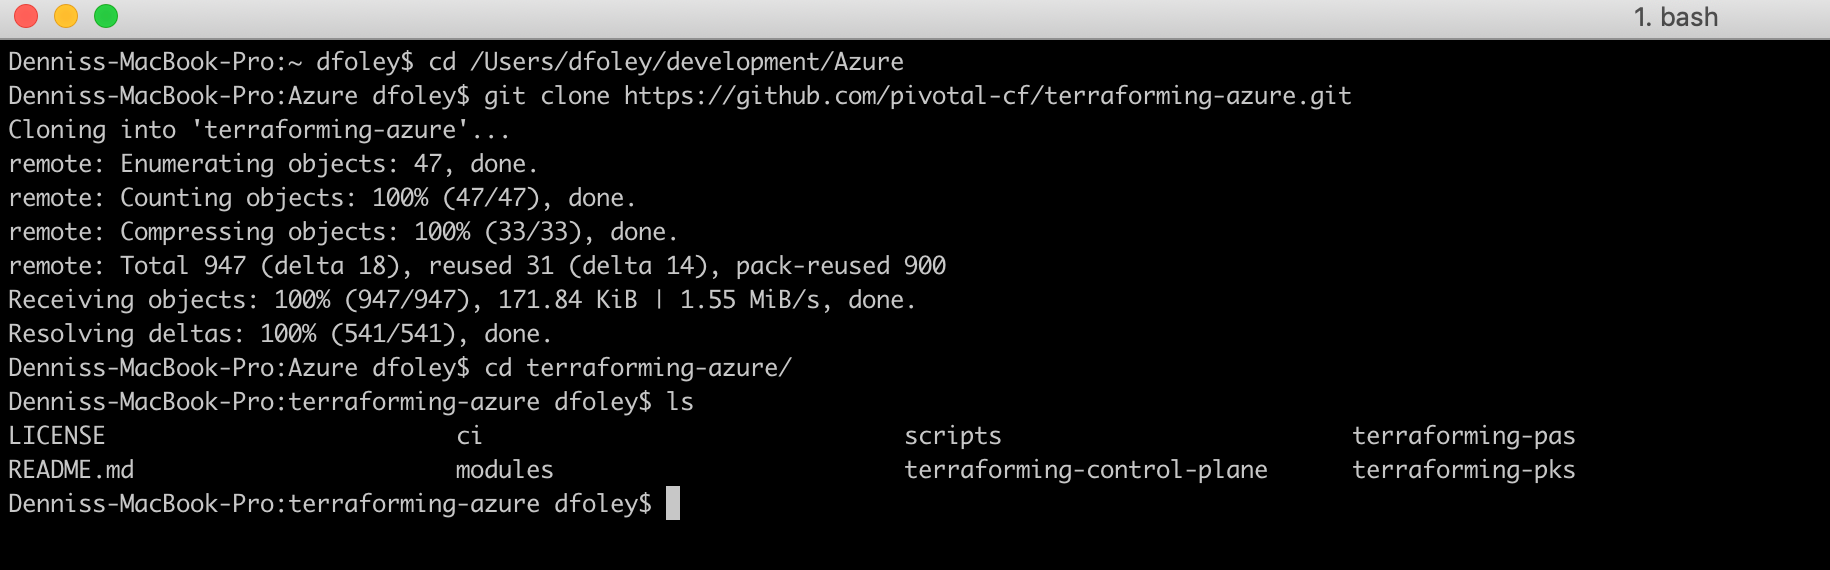
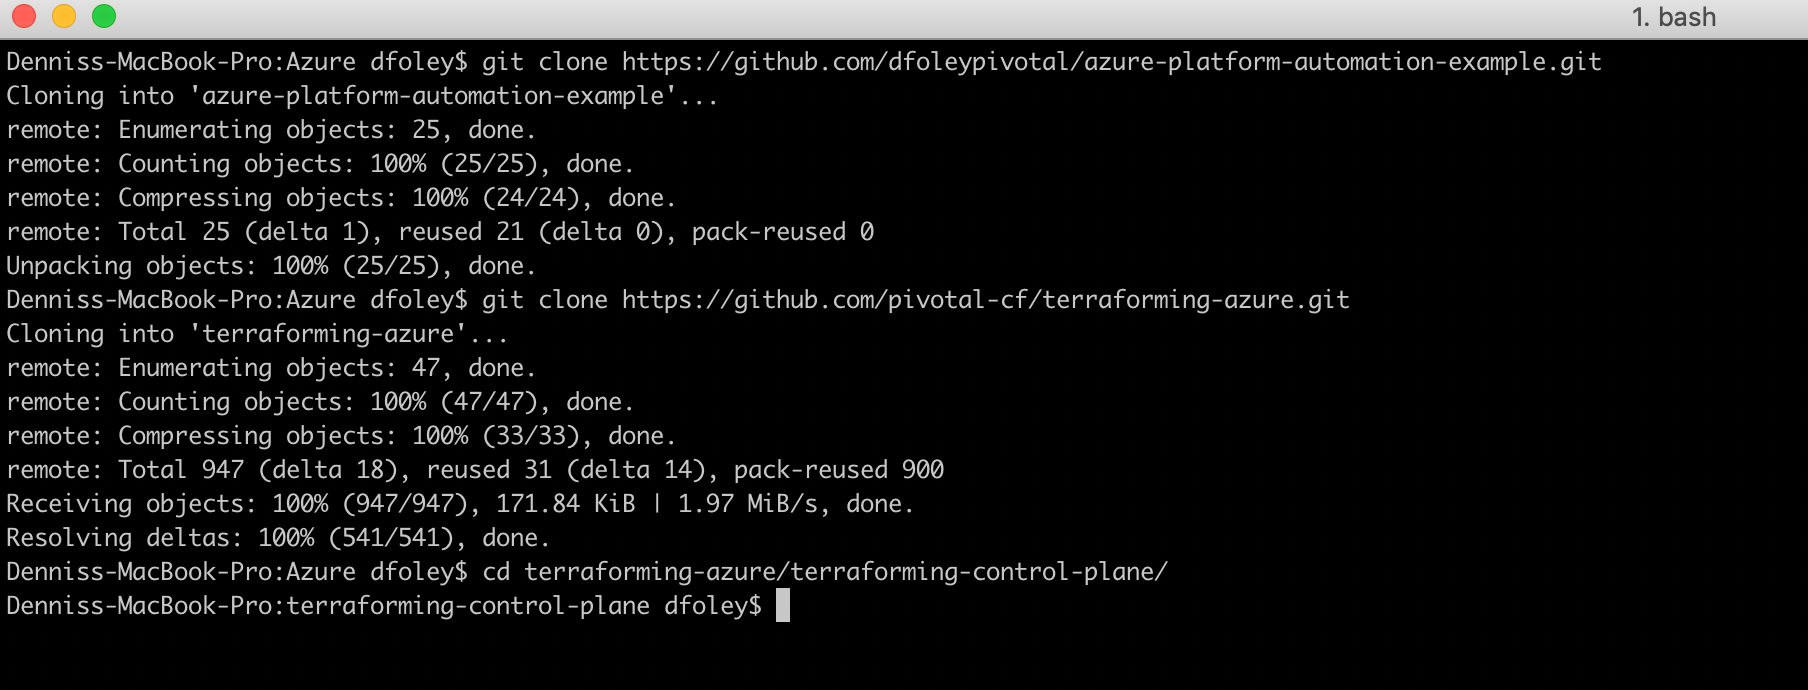
Added step to deploy Control Plane

Changed region(s): [[0.0, 0.0, 1.0, 0.9246], [0.7434, 0.7456, 0.8673, 0.8649], [0.4956, 0.7456, 0.5575, 0.7754]]

diff --git a/README.md b/README.md
@@ -28,11 +28,17 @@ This workshop will walk you through the process of deploying **Pivotal Cloud Fou
 cd /Users/dfoley/development/Azure
 ```
 
+- Clone workshop repository
+
+```bash
+git clone https://github.com/dfoleypivotal/azure-platform-automation-example.git
+```
+
 - Clone terraforming-azure repository
 
 ```bash
 git clone https://github.com/pivotal-cf/terraforming-azure.git
-cd terraforming-azure
+cd terraforming-azure/terraforming-control-plane/
 ```
 
 ![](images/image1.png)
@@ -78,13 +84,6 @@ az-automation \
 ### **STEP 3**: Pave IaaS using Terraform
 
 - Next step
-
-```bash
-cd terraforming-control-plane/
-vi terraform.tfvars
-```
-
-![](images/image6.png)
 
 - Using the values from the file **controlplane-credentials.tfvars** populate the **terraform.tfvars** file with the content below.
 
@@ -144,6 +143,127 @@ echo https://"$(terraform output ops_manager_dns)"
 - Follow the Pivotal documentation [Configuring BOSH Director on Azure](https://docs.pivotal.io/pivotalcf/2-4/om/azure/config-manual.html)
 
 **Note:** On the *Create Networks Page* only create one network, following the *infrastructure* network guide, and set the *Name* field to *control-plane-subnet*
+
+- For automated configuration run script **deploy-om-director.sh**
+
+```bash
+../../azure-platform-automation-example/scripts/deploy-om-director.sh
+```
+
+- Add image
+
+### **STEP 5**: Deploy Control Plane via Manifest
+
+- Retrieve the assets from [Pivotal Network](https://network.pivotal.io/). Download the manifest and all of the releases from [Pivotal Control Plane Components](https://network.pivotal.io/products/p-control-plane-components/#/releases/359492)
+
+    ![](images/image12.png)
+
+- Download the stemcell for the releases from [Stemcells for PCF](https://network.pivotal.io/products/stemcells-ubuntu-xenial#/releases/354816)
+
+    ![](images/image13.png)
+
+
+- Move downloaded files to current directory (it will make it easier to upload the assets later)
+
+```bash
+cp ~/Downloads/{control-plane*.yml,uaa-release*.tgz,credhub-release*.tgz,postgres-release*.tgz,garden-runc*.tgz,concourse-release*.tgz,*bosh-stemcell*.tgz, bosh-dns*.tgz} .
+```
+
+![](images/image14.png)
+
+- You need to upload each asset to your Ops Manager VM in order to upload them to BOSH. Save the Ops Manager SSH KEY to an environment variable (the ***OPS_MANAGER_KEY_PATH*** variable can be arbitrary)
+
+```bash
+export OPS_MANAGER_KEY_PATH=/your/ssh/key/path
+
+terraform output ops_manager_ssh_private_key > $OPS_MANAGER_KEY_PATH
+chmod 0600 $OPS_MANAGER_KEY_PATH
+```
+
+![](images/image15.png)
+
+- Save the Ops Manager environment variables for connecting with the om CLI
+
+```bash
+export OM_TARGET="https://$(terraform output ops_manager_dns)"
+export OM_USERNAME="the ops manager user name"
+export OM_PASSWORD="the ops manager password"
+```
+
+![](images/image16.png)
+
+- Set environment variables for connecting to BOSH
+
+```bash
+eval "$(om --skip-ssl-validation bosh-env --ssh-private-key $OPS_MANAGER_KEY_PATH)"
+```
+
+- Upload the assets to BOSH
+
+```bash
+bosh upload-stemcell *bosh-stemcell*.tgz
+bosh upload-release concourse-release-*.tgz
+bosh upload-release credhub-release-*.tgz
+bosh upload-release garden-runc-release-*.tgz
+bosh upload-release postgres-release-*.tgz
+bosh upload-release uaa-release-*.tgz
+bosh upload-release bosh-dns-*.tgz
+```
+
+![](images/image17.png)
+
+- Add a custom vm extension that includes details of your IAAS specific load balancer configuration.
+
+- Create a vars file called **vm-extension-vars.yml** with the following content:
+
+```vi
+---
+"control-plane-lb": controlplane-lb
+```
+
+- Create a config file called **vm-extension.yml**:
+
+```vi
+vm-extension-config:
+  name: control-plane-lb
+  cloud_properties:
+   load_balancer: ((control-plane-lb))
+```
+
+- Create and apply the custom extension with om
+
+```bash
+om --skip-ssl-validation create-vm-extension \
+  --config vm-extension.yml \
+  --vars-file vm-extension-vars.yml
+
+om --skip-ssl-validation apply-changes
+```
+
+
+- Retrieve the Control Plane domain and availability zones from Terraform.
+
+```bash
+export CONTROL_PLANE_ROOT_DOMAIN="$(terraform output control_plane_domain)"
+```
+
+- Make a **bosh-vars.yml** to hold these deployment vars:
+
+```vi
+---
+external_url: https://plane.pcfcontrolplane.<your domain>
+persistent_disk_type: 10240
+vm_type: Standard_DS2_v2
+azs: ["null"]
+network_name: control-plane
+wildcard_domain: "*.pcfcontrolplane.<your domain>"
+uaa_url: https://uaa.pcfcontrolplane.<your domain>
+uaa_ca_cert: |
+ $(credhub get -n /p-bosh/control-plane/control-plane-tls -k certificate | awk ‘{printf “%s\r\n  “, $0}’)
+ ```
+
+
+
 
 
 
